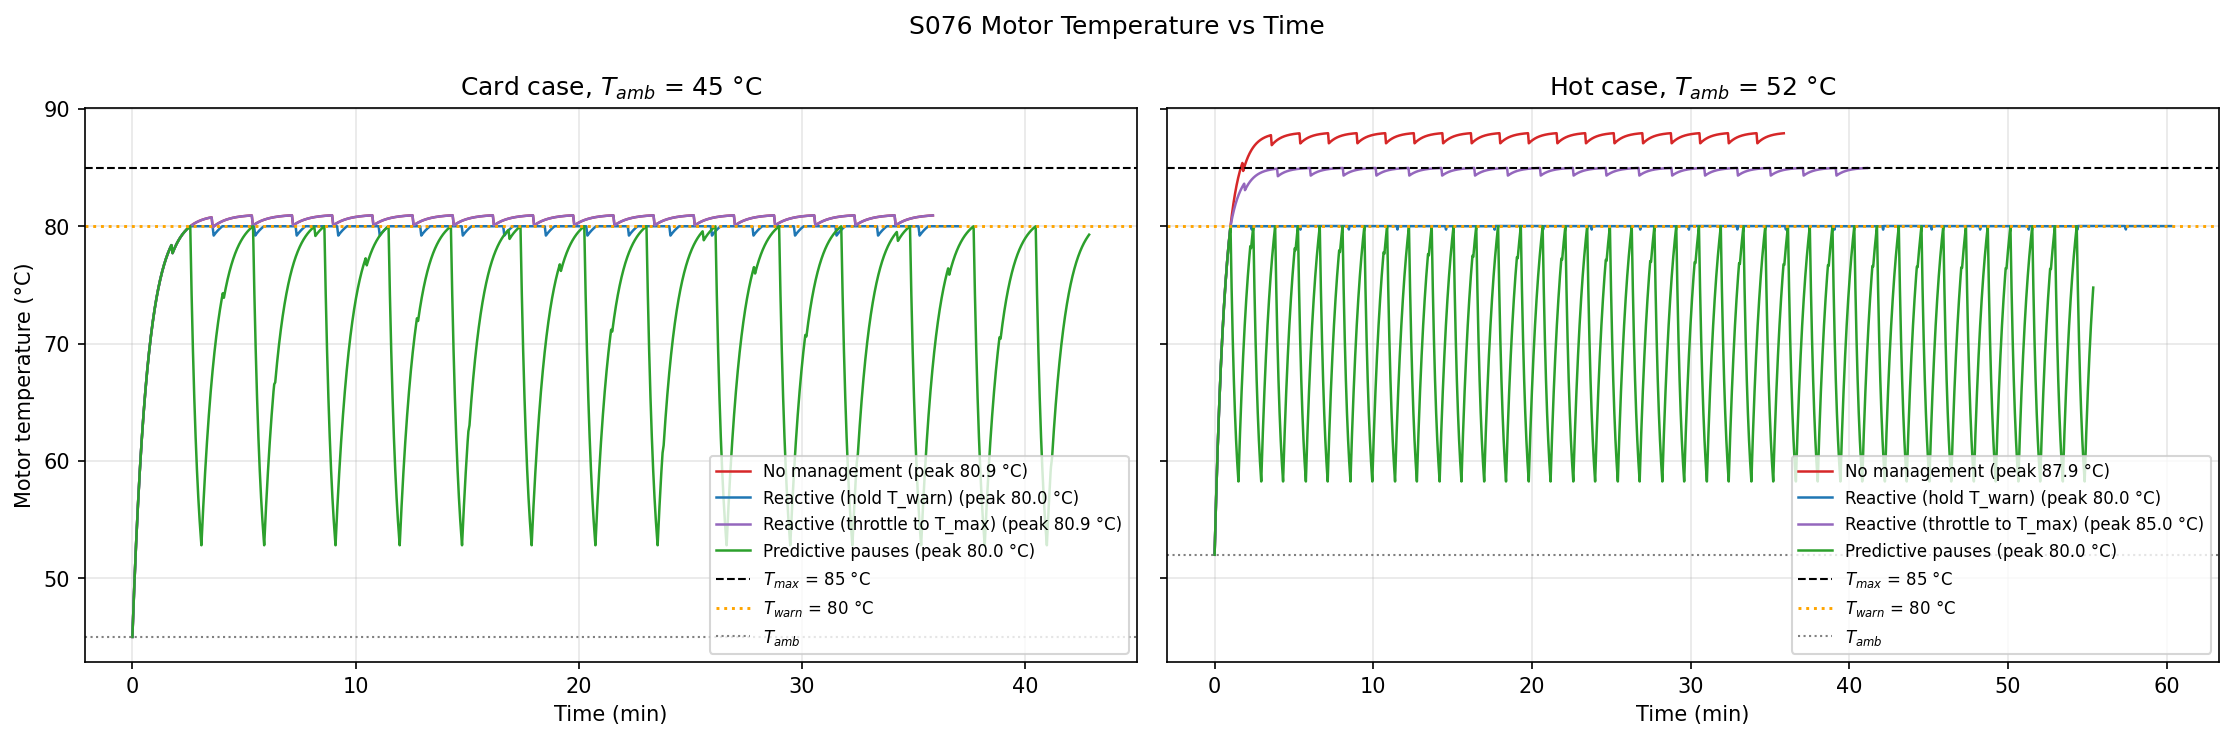
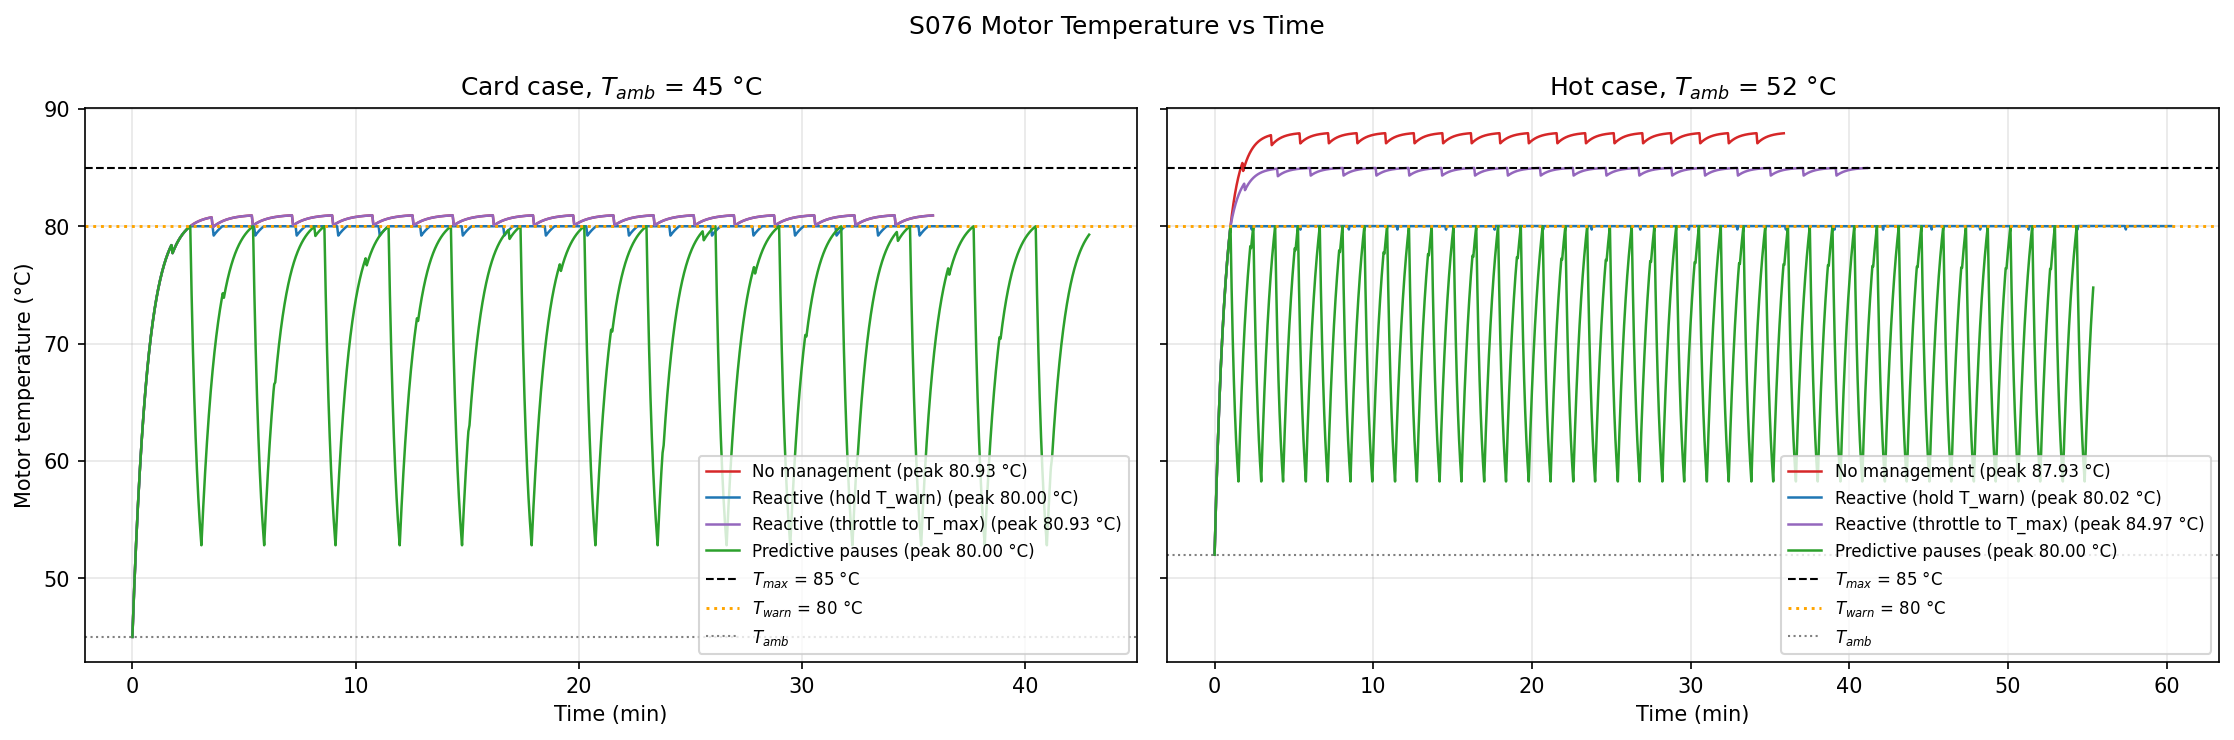
Fix S076 Extreme Heat Cooling Strategy: address review follow-ups
Assert the throttle-to-T_max variant never exceeds T_max, add a fairness
check (predictive pausing at T_max), fix bolding/tie wording, docstring and
the two-decimal peak legend.

Changed region(s): [[0.3089, 0.6216, 0.4942, 0.8703], [0.803, 0.6216, 0.9884, 0.8703]]

diff --git a/src/04_industrial_agriculture/s076_thermal_management.py b/src/04_industrial_agriculture/s076_thermal_management.py
@@ -3,10 +3,13 @@ S076 Extreme Heat Cooling Strategy
 ==================================
 A single inspection drone flies a boustrophedon (lawnmower) path over a 100 x 100 m field
 at 45 degC ambient. Motor temperature follows a first-order thermal model driven by the
-speed-dependent motor power P(v) = P_hover + k_v v^2. Three strategies are compared:
+speed-dependent motor power P(v) = P_hover + k_v v^2. Four strategies are compared:
   1. No thermal management (constant v0 = 1 m/s)
-  2. Reactive throttle (slow down above T_warn, cooling pause at T_max)
-  3. Predictive scheduled pauses (closed-form plan that never enters the warning zone)
+  2. Reactive throttle, hold T_warn (above T_warn fly at the speed that holds the current
+     temperature; cooling pause at T_max)
+  3. Reactive throttle to T_max (above T_warn fly at the speed whose steady state is T_max;
+     cooling pause at T_max)
+  4. Predictive scheduled pauses (closed-form plan that never enters the warning zone)
 The card's parameter set (T_amb = 45 degC) is run first; an ambient-temperature sweep
 (40-55 degC) and a detailed hot case (52 degC) show where the strategies actually differ.
 
@@ -110,11 +113,11 @@ def build_path():
 
 # ── Predictive planner (closed form, before flight) ───────────────────────────
 
-def plan_pauses(t_amb, v=V0):
+def plan_pauses(t_amb, v=V0, thresh=T_WARN):
     """Path distances at which T_m would reach T_warn; a pause is inserted there."""
     elems, _ = build_path()
     t_inf, t_inf_turn = t_ss(v, t_amb), t_amb + R_TH * P_TURN
-    assert t_inf_turn < T_WARN, 'hovering alone would enter the warning zone'
+    assert t_inf_turn < thresh, 'hovering alone would enter the warning zone'
     tm, s, pauses = t_amb, 0.0, []
     for e in elems:
         if e[0] == 'turn':
@@ -122,8 +125,8 @@ def plan_pauses(t_amb, v=V0):
             continue
         rem = float(np.linalg.norm(e[2] - e[1]))
         while rem > 1e-12:
-            if t_inf > T_WARN:
-                t_w = TAU * np.log((t_inf - tm) / (t_inf - T_WARN)) if tm < T_WARN else 0.0
+            if t_inf > thresh:
+                t_w = TAU * np.log((t_inf - tm) / (t_inf - thresh)) if tm < thresh else 0.0
             else:
                 t_w = np.inf
             if v * t_w >= rem:
@@ -134,18 +137,18 @@ def plan_pauses(t_amb, v=V0):
                 s += v * t_w
                 rem -= v * t_w
                 pauses.append(s)
-                tm = t_amb + (T_WARN - t_amb) * np.exp(-T_PAUSE / TAU_COOL)
+                tm = t_amb + (thresh - t_amb) * np.exp(-T_PAUSE / TAU_COOL)
     return pauses
 
 
 # ── Simulation engine ─────────────────────────────────────────────────────────
 
-def simulate(strategy, t_amb=T_AMB, reactive_law='hold'):
+def simulate(strategy, t_amb=T_AMB, reactive_law='hold', pred_thresh=T_WARN):
     """Fly the full lawnmower path under one strategy; returns a log dict and an outcome."""
     elems, n_strips = build_path()
     if strategy == 'reactive_max':
         strategy, reactive_law = 'reactive', 'tmax'
-    plan = plan_pauses(t_amb) if strategy == 'predictive' else []
+    plan = plan_pauses(t_amb, thresh=pred_thresh) if strategy == 'predictive' else []
     pi = 0
     tm, clock, s = t_amb, 0.0, 0.0
     pos = elems[0][1].copy()
@@ -235,7 +238,9 @@ def simulate(strategy, t_amb=T_AMB, reactive_law='hold'):
                   (L['y'] >= -1e-9) & (L['y'] <= FIELD_W + 1e-9)), 'left the field'
     assert np.all(L['T'] >= t_amb - 1e-9), 'motor below ambient'
     if strategy == 'predictive':
-        assert L['T'].max() <= T_WARN + 1e-6, 'predictive plan entered the warning zone'
+        assert L['T'].max() <= pred_thresh + 1e-6, 'predictive plan exceeded its threshold'
+    if strategy == 'reactive' and reactive_law == 'tmax':
+        assert L['T'].max() <= T_MAX, 'throttle-to-T_max variant exceeded T_max'
     out = dict(strategy=strategy, t_amb=t_amb, mission_s=clock, peak_T=float(L['T'].max()),
                path_m=s, n_strips=n_strips, **stats)
     return L, out
@@ -247,6 +252,8 @@ def run_simulation():
     for case, ta in (('card', T_AMB), ('hot', T_AMB_HOT)):
         res[case] = {st: simulate(st, ta) for st in STRATEGIES}
     res['card_literal'] = simulate('reactive', T_AMB, reactive_law='card')
+    # fairness check: predictive schedule allowed to use the same 85 degC limit
+    res['pred85_hot'] = simulate('predictive', T_AMB_HOT, pred_thresh=T_MAX)
     sweep = {st: [] for st in STRATEGIES}
     for ta in T_AMB_SWEEP:
         for st in STRATEGIES:
@@ -269,7 +276,7 @@ def plot_temperature_traces(res, out_dir):
         for st in STRATEGIES:
             L, o = res[case][st]
             ax.plot(L['t'] / 60, L['T'], color=COLORS[st], lw=1.2,
-                    label=f"{LABELS[st]} (peak {o['peak_T']:.1f} °C)")
+                    label=f"{LABELS[st]} (peak {o['peak_T']:.2f} °C)")
         ax.axhline(T_MAX, color='k', ls='--', lw=1, label=f'$T_{{max}}$ = {T_MAX:.0f} °C')
         ax.axhline(T_WARN, color='orange', ls=':', lw=1.4, label=f'$T_{{warn}}$ = {T_WARN:.0f} °C')
         ta = T_AMB if case == 'card' else T_AMB_HOT
@@ -572,6 +579,11 @@ if __name__ == '__main__':
         print(f'    {ta:4.0f}: ' + ' / '.join(f'{oo["mission_s"] / 60:6.2f}' for oo in o) +
               f'   peaks {o[0]["peak_T"]:.1f} / {o[1]["peak_T"]:.2f} / {o[2]["peak_T"]:.2f}'
               f'   pauses {o[1]["n_pauses"]} / {o[2]["n_pauses"]} / {o[3]["n_pauses"]}')
+    p85 = res['pred85_hot'][1]
+    print(f'  Fairness check at {T_AMB_HOT:.0f} degC: predictive pauses at T_max instead of T_warn: '
+          f'mission {p85["mission_s"] / 60:.2f} min, {p85["n_pauses"]} pauses, peak '
+          f'{p85["peak_T"]:.2f} degC (throttle to T_max: '
+          f'{res["hot"]["reactive_max"][1]["mission_s"] / 60:.2f} min)')
     for st in ('reactive', 'reactive_max'):
         rx = [res['sweep'][st][i]['mission_s'] - res['sweep']['predictive'][i]['mission_s']
               for i in range(len(T_AMB_SWEEP))]

diff --git a/outputs/04_industrial_agriculture/s076_thermal_management/README.md b/outputs/04_industrial_agriculture/s076_thermal_management/README.md
@@ -89,7 +89,7 @@ conda activate drones
 python src/04_industrial_agriculture/s076_thermal_management.py
 ```
 
-Runtime ≈ 1.5–2 min (96–119 s measured while other simulations shared the CPU).
+Runtime ≈ 1.5–2 min (84–119 s measured while other simulations shared the CPU).
 
 ---
 
@@ -113,14 +113,15 @@ Runtime ≈ 1.5–2 min (96–119 s measured while other simulations shared the 
 | **Reactive (throttle to $T_{max}$)** | **2466.8 s (41.11 min)** | 84.97 °C | 0 | 0.0 s | +314.8 s |
 | Predictive pauses | 3322.0 s (55.37 min) | 80.00 °C | 39 | 0.0 s | +1170.0 s |
 
-The managed strategies' peak temperatures are set **by design**: about 80 °C for hold-$T_{warn}$ and predictive, just below 85 °C for throttle-to-$T_{max}$. Peak temperature therefore does not rank them; mission time does. The 85.0 label in the metrics chart is 84.97 °C rounded.
+The managed strategies' peak temperatures are set **by design**: about 80 °C for hold-$T_{warn}$ and predictive, just below 85 °C for throttle-to-$T_{max}$. Peak temperature therefore does not rank them; mission time does. The 85.0 label in the metrics chart is 84.97 °C rounded to one decimal; the temperature-trace legend shows two decimals. The script asserts that the throttle-to-$T_{max}$ variant never exceeds $T_{max}$.
 
 **Key findings**:
 - **The card's expected result does not hold at 45 °C.** With the card's parameters, $T_{m,\infty}(v_0) = 81.0$ °C, below $T_{max}$. Unmanaged flight peaks at 80.93 °C and never breaches $T_{max}$. The card's "> 85 °C (violation)" for no management, "3–6 pauses" for reactive and "4–7 pauses" for predictive are not reproduced (0 and 14 pauses). The card's $v_{safe} \approx 0.91$ m/s is also wrong: the correct value is 1.155 m/s. The 0.91 matches the square of the $T_{warn}$ speed (0.917), so a square root was probably dropped. The card has been corrected.
 - **At 45 °C, the best reactive throttle does nothing.** $v_{safe}$ = 1.155 m/s is above $v_0$, so throttling to $T_{max}$ never slows the drone and matches unmanaged flight (35.87 min, peak 80.93 °C). Holding 80 °C costs 67.6 s: the drone flies 1521.2 m below $v_0$, taking 1588.8 s. The predictive schedule costs 420.0 s (14 pauses × 30 s), because it cools all the way to 52.8 °C every time and then reheats.
-- **Throttling to $T_{max}$ is the fastest safe strategy at every ambient temperature tested.** At 52 °C, where unmanaged flight spends 2047.8 s above $T_{max}$, it takes 41.11 min with a peak of 84.97 °C. Predictive takes 55.37 min and hold-$T_{warn}$ 60.29 min. Over the whole 40–55 °C sweep it never exceeds $T_{max}$ (maximum peak 84.99 °C, 0.0 s above), never pauses, and predictive is never faster than it. At 55 °C it needs 50.00 min against 61.37 min for predictive.
+- **Throttling to $T_{max}$ is the fastest safe strategy at every ambient temperature tested (tied with no management up to 49 °C, where no management is still safe).** At 52 °C, where unmanaged flight spends 2047.8 s above $T_{max}$, it takes 41.11 min with a peak of 84.97 °C. Predictive takes 55.37 min and hold-$T_{warn}$ 60.29 min. Over the whole 40–55 °C sweep it never exceeds $T_{max}$ (maximum peak 84.99 °C, 0.0 s above), never pauses, and predictive is never faster than it. At 55 °C it needs 50.00 min against 61.37 min for predictive.
 - **Predictive beats only the conservative reactive variant.** Predictive is faster than hold-$T_{warn}$ from 51 to 55 °C (e.g. 55.37 vs 60.29 min at 52 °C). That crossover is a property of the hold-at-80 °C law, not of reactive control in general. Holding 80 °C at 52 °C forces 0.577 m/s, because even hovering heats the motor toward 76 °C. Holding it at 55 °C takes 118.95 min, because $v_{hold}$ approaches zero as $T_{amb} + R_{th}P_{hover}$ approaches $T_{warn}$ (56 °C). Below 45 °C, none of the strategies needs to act, and all take 35.87 min.
 - **What the predictive schedule buys**: it keeps the motor at or below 80 °C, i.e. a 5 °C margin below the limit, at a cost in mission time: 42.87 vs 35.87 min at 45 °C and 55.37 vs 41.11 min at 52 °C against throttling to $T_{max}$.
+- **Fairness check**: letting the predictive schedule also use the 85 °C limit (pause when $T_m$ would reach $T_{max}$) at 52 °C gives 46.87 min with 22 pauses (peak 85.00 °C). That is still slower than throttling to $T_{max}$ (41.11 min), so the ranking does not come from the two strategies using different thresholds.
 - **The card's literal reactive formula chatters.** $v_{safe}(T_m) = \sqrt{\max(0, (T_{max} - T_m)/(R_{th}k_v) - P_{hover}/k_v)}$ is zero for every $T_m \ge 61$ °C, so in the warning zone it always commands the 0.05 m/s floor. Run literally at 45 °C, it makes 2804 speed switches between 1.0 and 0.05 m/s and takes 2285.2 s (38.09 min), 65.6 s longer than the corrected $v_{hold}$ law. It slows down too much because $P(v)$ is convex in $v$: alternating fast and slow heats the motor more than a steady speed with the same average.
 - **Caveat on the pause model**: the card treats a shaded pause as cooling toward $T_{amb}$, i.e. little or no motor heat while paused. If the drone kept hovering during the pause, it would cool only toward $T_{amb} + R_{th}P_{hover}$, and the predictive schedule would lose much of its advantage in the hot case.
 
@@ -129,12 +130,12 @@ The managed strategies' peak temperatures are set **by design**: about 80 °C fo
 | No management (min) | 35.87 | 35.87 | 35.87 | 35.87 | 35.87 | 35.87 | 35.87 | 35.87 | 35.87 | 35.87 | 35.87 | 35.87 |
 | No-management peak (°C) | 75.9–79.9 | 80.9 | 81.9 | 82.9 | 83.9 | 84.9 | **85.9** | **86.9** | **87.9** | **88.9** | **89.9** | **90.9** |
 | Reactive, hold $T_{warn}$ (min) | 35.87 | 36.99 | 38.64 | 40.62 | 43.00 | 45.86 | 49.43 | 54.05 | 60.29 | 69.42 | 84.70 | 118.95 |
-| Reactive, throttle to $T_{max}$ (min) | **35.87** | **35.87** | **35.87** | **35.87** | **35.87** | **35.87** | **37.37** | **39.09** | **41.11** | **43.51** | **46.40** | **50.00** |
+| Reactive, throttle to $T_{max}$ (min) | 35.87 | 35.87 | 35.87 | 35.87 | 35.87 | 35.87 | **37.37** | **39.09** | **41.11** | **43.51** | **46.40** | **50.00** |
 | Reactive, throttle to $T_{max}$, peak (°C) | 75.93–79.93 | 80.93 | 81.93 | 82.93 | 83.93 | 84.93 | 84.95 | 84.96 | 84.97 | 84.98 | 84.98 | 84.99 |
 | Predictive (min) | 35.87 | 42.87 | 45.37 | 46.87 | 48.87 | 50.37 | 51.87 | 53.87 | 55.37 | 57.37 | 59.37 | 61.37 |
 | Predictive pauses | 0 | 14 | 19 | 22 | 26 | 29 | 32 | 36 | 39 | 43 | 47 | 51 |
 
-Bold peaks are breaches of $T_{max}$. Bold mission times mark the fastest strategy that never exceeds $T_{max}$. Both reactive variants pause 0 times at every ambient temperature.
+Bold peaks are breaches of $T_{max}$. Bold mission times mark the single fastest strategy that never exceeds $T_{max}$. At 40–44 °C all four strategies tie at 35.87 min. At 45–49 °C no management and throttle-to-$T_{max}$ tie at 35.87 min (both stay below $T_{max}$), so nothing is bolded there. Both reactive variants pause 0 times at every ambient temperature.
 
 ### Motor Temperature
 

diff --git a/scenarios/04_industrial_agriculture/S076_thermal_management.md b/scenarios/04_industrial_agriculture/S076_thermal_management.md
@@ -90,8 +90,8 @@ $$v_{safe}(T_m) = \sqrt{\max\!\left(0,\; \frac{T_{max} - T_m}{R_{th} \cdot k_v} 
 > $$v_{hold}(T_m) = \sqrt{\max\!\left(0,\; \frac{(T_m - T_{amb})/R_{th} - P_{hover}}{k_v}\right)}$$
 >
 > and, as a second variant that uses the 80–85 °C band, the static $v_{safe}$ above (steady
-> state at $T_{max}$). The second variant is the faster one at every ambient temperature from
-> 40 to 55 °C and never exceeds $T_{max}$.
+> state at $T_{max}$). The second variant is at least as fast as every other strategy at every ambient temperature
+> from 40 to 55 °C (all tie at 40–44 °C) and never exceeds $T_{max}$.
 
 ### Cooling Pause Temperature Decay
 
